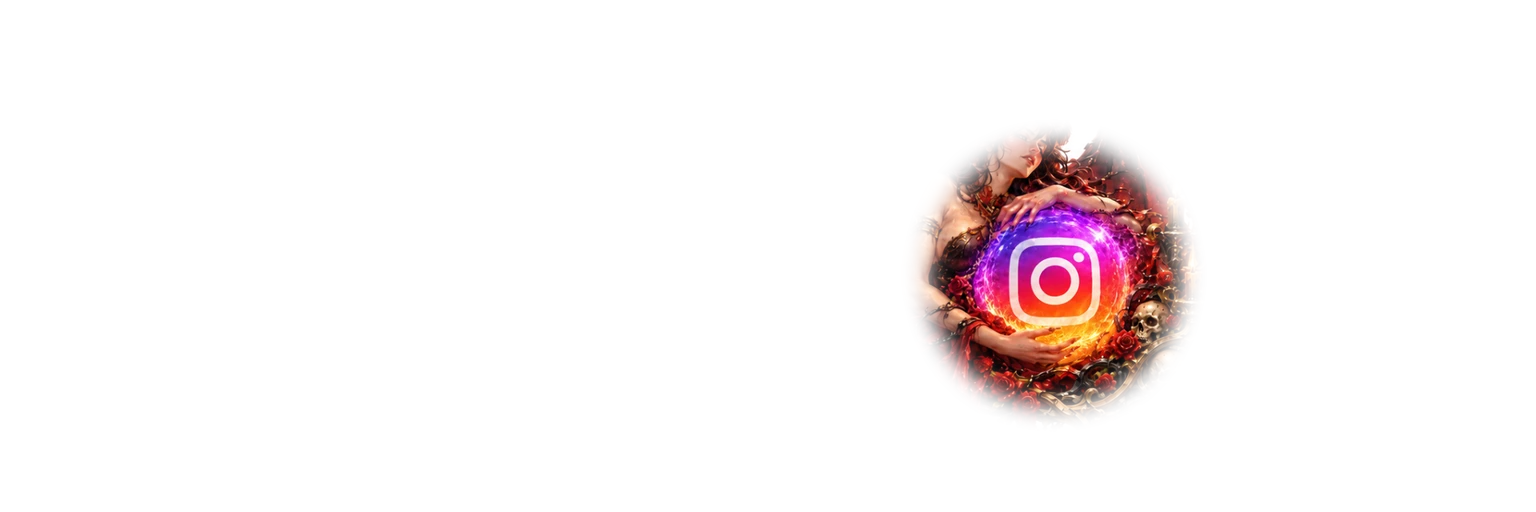
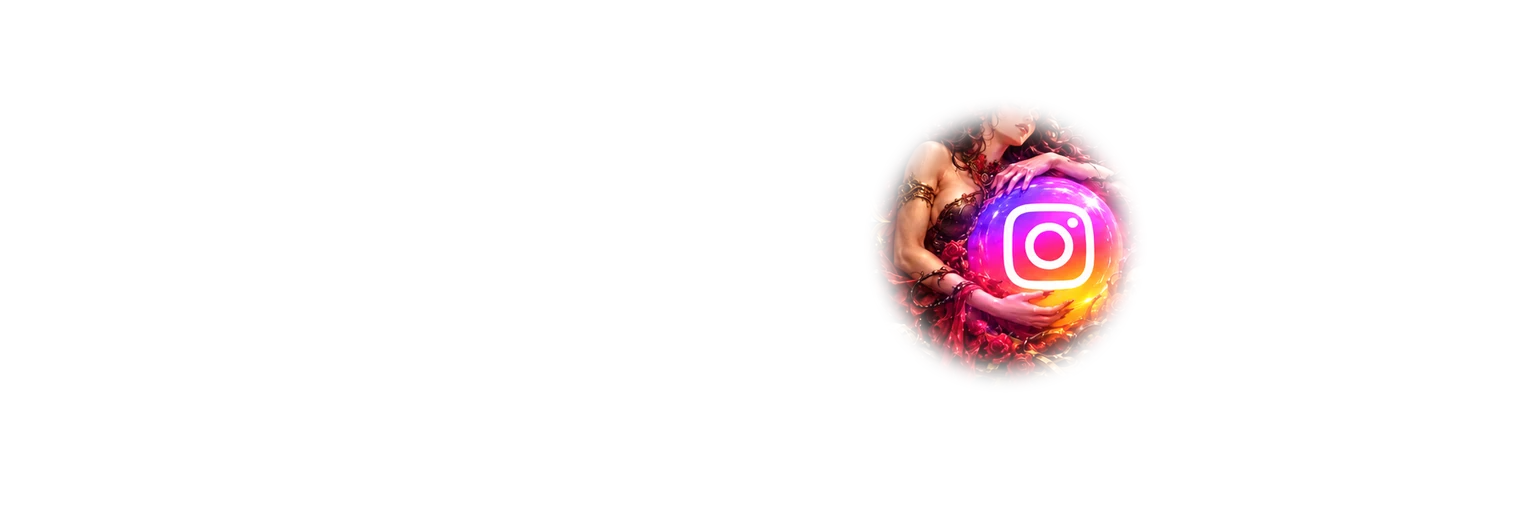
feat(beta-v2): install approved artwork and aligned hover overlays
* style(beta-v2): align approved artwork and social hover masks

* test(beta-v2): expect verified approved artwork checksums

* chore(beta-v2): refresh approved artwork cache keys

* chore(beta-v2): refresh approved artwork cache keys

* chore(beta-v2): refresh approved artwork cache keys

* chore(beta-v2): refresh approved artwork cache keys

* chore(beta-v2): refresh approved artwork cache keys

* chore(beta-v2): refresh approved artwork cache keys

* Add files via upload

Changed region(s): [[0.5625, 0.2188, 0.7812, 0.8125]]

diff --git a/beta-v2/adunanze/nazionale/index.html b/beta-v2/adunanze/nazionale/index.html
@@ -25,7 +25,7 @@
   <link rel="stylesheet" href="../../../assets/css/ica-shared-shell.css">
   <link rel="stylesheet" href="../../../beta/adunanze/nazionale/adunanze-nazionale.css?v=20260928-3">
   <meta name="robots" content="noindex,nofollow">
-  <link rel="stylesheet" href="../../../beta-v2/shared/header-v2.css?v=20260930-beta-v2">
+  <link rel="stylesheet" href="../../../beta-v2/shared/header-v2.css?v=20260930-approved-artwork">
   <link rel="preload" as="image" href="../../../assets/header-v2/banner-base-alpha.webp" fetchpriority="high">
 </head>
 <body data-ica-page="ADU-NAT">
@@ -73,6 +73,6 @@
 </div>
 <script src="../../../beta/adunanze/nazionale/main.js?v=20260928-3"></script>
 <script src="../../../assets/js/lcs02-inspector.js"></script>
-<script type="module" src="../../../beta-v2/shared/header-v2.js?v=20260930-beta-v2"></script>
+<script type="module" src="../../../beta-v2/shared/header-v2.js?v=20260930-approved-artwork"></script>
 </body>
 </html>

diff --git a/beta-v2/alleanze/index.html b/beta-v2/alleanze/index.html
@@ -15,7 +15,7 @@
   <link rel="stylesheet" href="../../assets/css/ica-shared-shell.css">
   <link rel="stylesheet" href="../../beta/alleanze/alleanze.css?v=20260929-2">
   <meta name="robots" content="noindex,nofollow">
-  <link rel="stylesheet" href="../../beta-v2/shared/header-v2.css?v=20260930-beta-v2">
+  <link rel="stylesheet" href="../../beta-v2/shared/header-v2.css?v=20260930-approved-artwork">
   <link rel="preload" as="image" href="../../assets/header-v2/banner-base-alpha.webp" fetchpriority="high">
 </head>
 <body data-ica-page="ALL">
@@ -83,6 +83,6 @@
 <script src="../../beta/alleanze/alleanze.js?v=20260929-2"></script>
 <script src="../../assets/js/lcs02-inspector.js"></script>
 <!-- pages-republish: 2026-09-29 cache-bust-2 -->
-<script type="module" src="../../beta-v2/shared/header-v2.js?v=20260930-beta-v2"></script>
+<script type="module" src="../../beta-v2/shared/header-v2.js?v=20260930-approved-artwork"></script>
 </body>
 </html>

diff --git a/beta-v2/avventurieri/index.html b/beta-v2/avventurieri/index.html
@@ -15,7 +15,7 @@
   <link rel="stylesheet" href="../../assets/css/ica-shared-shell.css">
   <link rel="stylesheet" href="../../beta/avventurieri/avventurieri.css">
   <meta name="robots" content="noindex,nofollow">
-  <link rel="stylesheet" href="../../beta-v2/shared/header-v2.css?v=20260930-beta-v2">
+  <link rel="stylesheet" href="../../beta-v2/shared/header-v2.css?v=20260930-approved-artwork">
   <link rel="preload" as="image" href="../../assets/header-v2/banner-base-alpha.webp" fetchpriority="high">
 </head>
 <body data-ica-page="AVV">
@@ -65,6 +65,6 @@
 </div>
 <script src="../../beta/avventurieri/avventurieri.js"></script>
 <script src="../../assets/js/lcs02-inspector.js"></script>
-<script type="module" src="../../beta-v2/shared/header-v2.js?v=20260930-beta-v2"></script>
+<script type="module" src="../../beta-v2/shared/header-v2.js?v=20260930-approved-artwork"></script>
 </body>
 </html>

diff --git a/beta-v2/adunanze/index.html b/beta-v2/adunanze/index.html
@@ -26,7 +26,7 @@
   <link rel="stylesheet" href="../../assets/css/ica-shared-shell.css">
   <link rel="stylesheet" href="../../beta/adunanze/adunanze-portal.css">
   <meta name="robots" content="noindex,nofollow">
-  <link rel="stylesheet" href="../../beta-v2/shared/header-v2.css?v=20260930-beta-v2">
+  <link rel="stylesheet" href="../../beta-v2/shared/header-v2.css?v=20260930-approved-artwork">
   <link rel="preload" as="image" href="../../assets/header-v2/banner-base-alpha.webp" fetchpriority="high">
 </head>
 <body data-ica-page="ADU">
@@ -86,6 +86,6 @@
 </div>
 <script src="../../beta/adunanze/adunanze-portal.js"></script>
 <script src="../../assets/js/lcs02-inspector.js"></script>
-<script type="module" src="../../beta-v2/shared/header-v2.js?v=20260930-beta-v2"></script>
+<script type="module" src="../../beta-v2/shared/header-v2.js?v=20260930-approved-artwork"></script>
 </body>
 </html>

diff --git a/beta-v2/cronache/index.html b/beta-v2/cronache/index.html
@@ -24,7 +24,7 @@
   <link rel="stylesheet" href="../../assets/css/ica-shared-shell.css">
   <link rel="stylesheet" href="../../beta/cronache/cronache-summary.css">
   <meta name="robots" content="noindex,nofollow">
-  <link rel="stylesheet" href="../../beta-v2/shared/header-v2.css?v=20260930-beta-v2">
+  <link rel="stylesheet" href="../../beta-v2/shared/header-v2.css?v=20260930-approved-artwork">
   <link rel="preload" as="image" href="../../assets/header-v2/banner-base-alpha.webp" fetchpriority="high">
 </head>
 <body data-ica-page="CRO">
@@ -53,6 +53,6 @@
 </div>
 <script src="../../beta/cronache/main.js"></script>
 <script src="../../assets/js/lcs02-inspector.js"></script>
-<script type="module" src="../../beta-v2/shared/header-v2.js?v=20260930-beta-v2"></script>
+<script type="module" src="../../beta-v2/shared/header-v2.js?v=20260930-approved-artwork"></script>
 </body>
 </html>

diff --git a/beta-v2/shared/header-v2.css b/beta-v2/shared/header-v2.css
@@ -29,3 +29,13 @@ body{background:#090e15}
  .ica-v2-notice{font-size:.62rem}
 }
 @media(prefers-reduced-motion:reduce){.ica-v2-component .ica-banner__image{transition:none}}
+
+/* Approved artwork: localized RGBA hover layers on the identical 1536 x 512 base. */
+.ica-v2-component .ica-banner__image--yt{clip-path:ellipse(8.5% 26% at 32.2% 47.7%)}
+.ica-v2-component .ica-banner__image--ig{clip-path:ellipse(9.3% 29% at 65.4% 47.7%)}
+.ica-v2-component .ica-banner__social{top:47.7%}
+.ica-v2-component .ica-banner__social--yt{left:32.2%}
+.ica-v2-component .ica-banner__social--ig{left:65.4%}
+/* The artwork includes painted lettering. Transparent DOM text preserves accessibility. */
+.ica-v2-component .ica-nav-label{color:transparent;text-shadow:none}
+.ica-v2-component .ica-banner__link:hover,.ica-v2-component .ica-banner__link:focus-visible{filter:brightness(1.08)}

diff --git a/beta-v2/index.html b/beta-v2/index.html
@@ -17,7 +17,7 @@
   <link rel="stylesheet" href="../beta/style.css">
   <link rel="stylesheet" href="../assets/css/ica-shared-shell.css">
   <meta name="robots" content="noindex,nofollow">
-  <link rel="stylesheet" href="../beta-v2/shared/header-v2.css?v=20260930-beta-v2">
+  <link rel="stylesheet" href="../beta-v2/shared/header-v2.css?v=20260930-approved-artwork">
   <link rel="preload" as="image" href="../assets/header-v2/banner-base-alpha.webp" fetchpriority="high">
 </head>
 <body data-ica-page="HOME">
@@ -112,6 +112,6 @@
 </div>
 <script src="../beta/main.js"></script>
 <script src="../assets/js/lcs02-inspector.js"></script>
-<script type="module" src="../beta-v2/shared/header-v2.js?v=20260930-beta-v2"></script>
+<script type="module" src="../beta-v2/shared/header-v2.js?v=20260930-approved-artwork"></script>
 </body>
 </html>

diff --git a/scripts/beta_v2_header_qa.py b/scripts/beta_v2_header_qa.py
@@ -30,10 +30,10 @@ for token in (
 if "new URL('../',import.meta.url)" not in shared:errors.append("Page-root URL resolution not found")
 if "new URL('../../assets/header-v2/',import.meta.url)" not in shared:errors.append("Shared asset-root resolution not found")
 expected_assets={
[8 lines of base64/hex data omitted]
 }
 for filename,(digest,size) in expected_assets.items():
